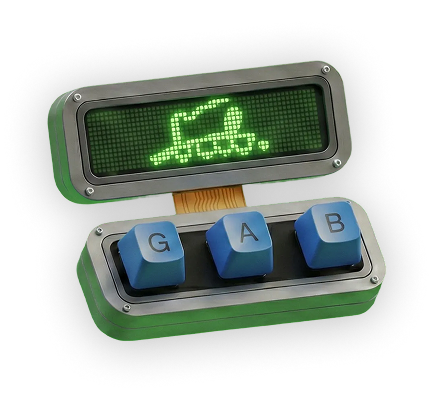
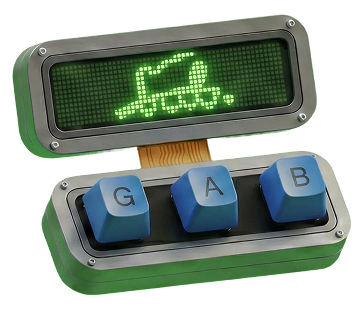
Deixa a imagem de fundo da secao responsiva

diff --git a/index.html b/index.html
@@ -48,7 +48,7 @@
         </div>
         <img
           class="mini-computador"
-          src="assets/imgs/mini-computador-gab.webp"
+          src="assets/imgs/mini-computador-gab.png"
           alt=""
         />
         <a class="link-conhecer" href="#">Vem me conheçer</a>

diff --git a/assets/css/style.css b/assets/css/style.css
@@ -81,6 +81,7 @@ main {
 }
 
 section {
+  min-height: 100vh;
   display: flex;
   flex-direction: column;
   align-items: center;
